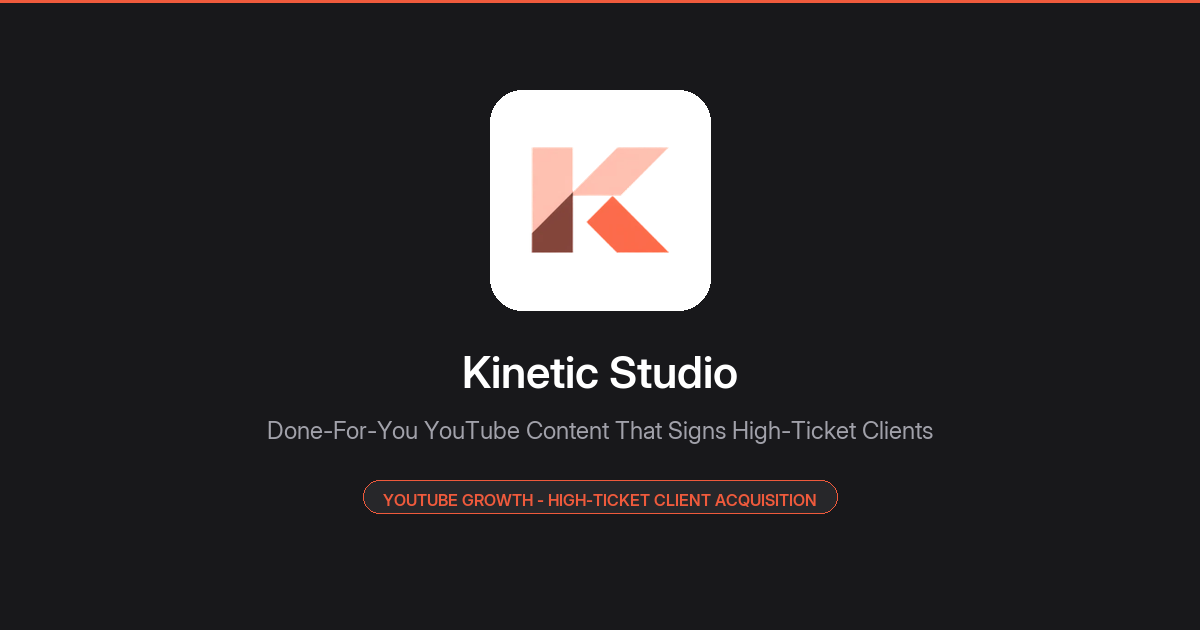
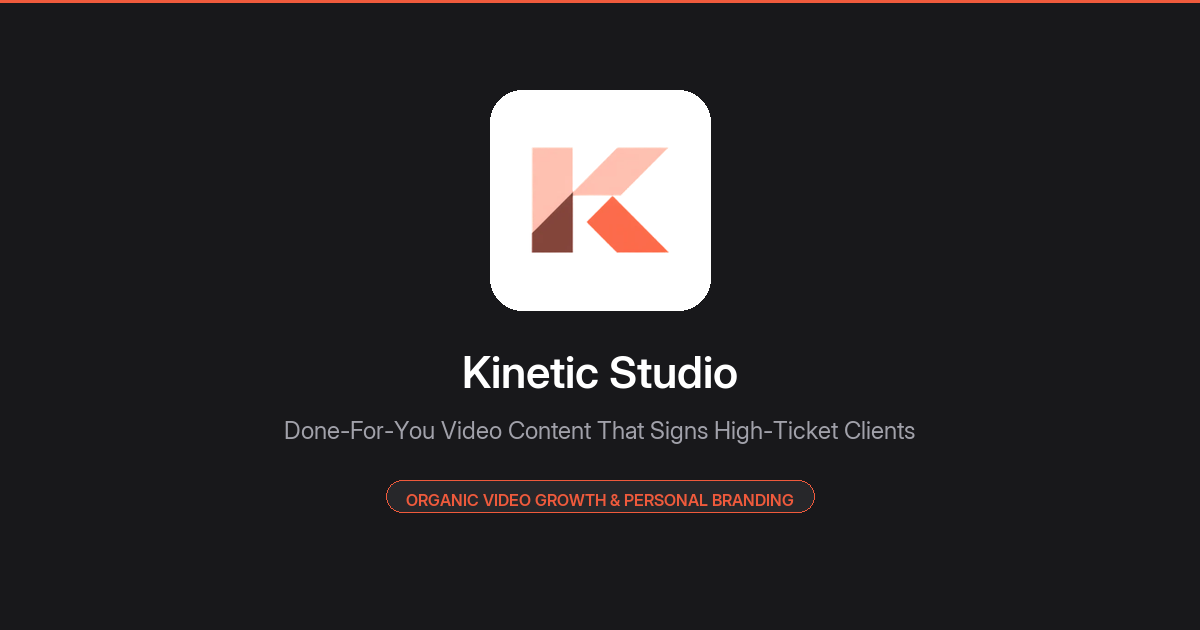
Generalize agency positioning from YouTube-only to full Video Growth & Personal Branding across headlines, metadata, and FAQ

Changed region(s): [[0.2158, 0.6635, 0.7708, 0.7238], [0.3083, 0.7841, 0.6783, 0.8143]]

diff --git a/index.html b/index.html
@@ -3,17 +3,17 @@
 <head>
   <meta charset="utf-8"/>
   <meta name="viewport" content="width=device-width, initial-scale=1"/>
-  <title>Kinetic Studio | Done-for-you YouTube Growth | Sign High-Ticket Clients</title>
-  <meta name="title" content="Kinetic Studio | Done-for-you YouTube Growth | Sign High-Ticket Clients"/>
-  <meta name="description" content="Kinetic Studio produces done-for-you YouTube videos so you can sign high-ticket clients and grow your business. We handle everything from ideation to scripting to editing to SEO to posting and lead tracking."/>
+  <title>Kinetic Studio | Done-for-you Video Growth | Sign High-Ticket Clients</title>
+  <meta name="title" content="Kinetic Studio | Done-for-you Video Growth | Sign High-Ticket Clients"/>
+  <meta name="description" content="Kinetic Studio produces done-for-you video content and personal branding so you can sign high-ticket clients and grow your business. We handle everything from ideation to scripting to editing to posting and lead tracking."/>
   <link rel="canonical" href="https://kineticstudio.site/"/>
 
   <!-- Open Graph / Facebook / LinkedIn / WhatsApp -->
   <meta property="og:type" content="website"/>
   <meta property="og:url" content="https://kineticstudio.site/"/>
   <meta property="og:site_name" content="Kinetic Studio"/>
-  <meta property="og:title" content="Kinetic Studio | Done-for-you YouTube Growth | Sign High-Ticket Clients"/>
-  <meta property="og:description" content="Done-for-you YouTube videos engineered to convert viewers into high-ticket clients. Ideation, scripting, editing, SEO, posting, and lead tracking."/>
+  <meta property="og:title" content="Kinetic Studio | Done-for-you Video Growth | Sign High-Ticket Clients"/>
+  <meta property="og:description" content="Done-for-you high-retention video content engineered to convert viewers into high-ticket clients. Ideation, scripting, editing, distribution, and lead tracking."/>
   <meta property="og:image" content="https://kineticstudio.site/assets/og_preview.png"/>
   <meta property="og:image:secure_url" content="https://kineticstudio.site/assets/og_preview.png"/>
   <meta property="og:image:type" content="image/png"/>
@@ -25,8 +25,8 @@
   <meta name="twitter:card" content="summary_large_image"/>
   <meta name="twitter:site" content="@kineticstudio"/>
   <meta name="twitter:url" content="https://kineticstudio.site/"/>
-  <meta name="twitter:title" content="Kinetic Studio | Done-for-you YouTube Growth"/>
-  <meta name="twitter:description" content="Kinetic Studio produces done-for-you YouTube videos so you can sign high-ticket clients and grow your business."/>
+  <meta name="twitter:title" content="Kinetic Studio | Done-for-you Video Growth"/>
+  <meta name="twitter:description" content="Kinetic Studio produces done-for-you video content and personal branding so you can sign high-ticket clients and grow your business."/>
   <meta name="twitter:image" content="https://kineticstudio.site/assets/og_preview.png"/>
 
   <!-- Google Search Favicons & Icons (Google Search multiple-of-48px standard) -->
@@ -62,7 +62,7 @@
           "height": 512
         },
         "image": "https://kineticstudio.site/assets/kinetic_logo_512.png",
-        "description": "Done-For-You YouTube Content That Signs High-Ticket Clients in 30 Days.",
+        "description": "Done-For-You Video Content That Signs High-Ticket Clients in 30 Days.",
         "email": "hello@kineticstudio.site"
       },
       {
@@ -70,7 +70,7 @@
         "@id": "https://kineticstudio.site/#website",
         "url": "https://kineticstudio.site/",
         "name": "Kinetic Studio",
-        "description": "Done-For-You YouTube Content That Signs High-Ticket Clients in 30 Days.",
+        "description": "Done-For-You Video Content That Signs High-Ticket Clients in 30 Days.",
         "publisher": {
           "@id": "https://kineticstudio.site/#organization"
         }
@@ -151,11 +151,11 @@
       <div class="ks-hero-content">
         <div style="display:inline-flex; align-items:center; gap:6px; background:#ECECEB; border:1px solid rgba(0,0,0,0.06); padding:6px 14px; border-radius:999px; font-size:12.5px; font-weight:600; color:#18181B; margin-bottom:20px;">
           <span style="width:6px; height:6px; background:#10B981; border-radius:50%; display:inline-block;"></span>
-          Done-for-you YouTube Growth
+          Done-for-you Video Growth
         </div>
 
         <h1 class="ks-hero-title">
-          <span class="dark-text">Done-For-You YouTube Content</span><br/>
+          <span class="dark-text">Done-For-You Video Content</span><br/>
           <span class="coral-text">That Signs High-Ticket Clients in 30 Days.</span>
         </h1>
 
@@ -237,8 +237,8 @@
     <h2 class="ks-apps-headline">
       The Acquisition Engine built for
       <span class="app-pill-tag email-tag">
-        <svg width="24" height="20" viewBox="0 0 24 24" fill="currentColor"><path d="M23.498 6.186a3.016 3.016 0 0 0-2.122-2.136C19.505 3.545 12 3.545 12 3.545s-7.505 0-9.377.505A3.017 3.017 0 0 0 .502 6.186C0 8.07 0 12 0 12s0 3.93.502 5.814a3.016 3.016 0 0 0 2.122 2.136c1.871.505 9.376.505 9.376.505s7.505 0 9.377-.505a3.015 3.015 0 0 0 2.122-2.136C24 15.93 24 12 24 12s0-3.93-.502-5.814zM9.545 15.568V8.432L15.818 12l-6.273 3.568z"/></svg>
-        YouTube
+        <svg width="22" height="20" viewBox="0 0 24 24" fill="none" stroke="currentColor" stroke-width="2"><polygon points="23 7 16 12 23 17 23 7"/><rect x="1" y="5" width="15" height="14" rx="2" ry="2"/></svg>
+        Organic Video
       </span>
       <span class="app-pill-tag events-tag">
         <svg width="22" height="20" viewBox="0 0 24 24" fill="none" stroke="currentColor" stroke-width="2"><path d="M16 21v-2a4 4 0 0 0-4-4H6a4 4 0 0 0-4 4v2"/><circle cx="9" cy="7" r="4"/><path d="M22 21v-2a4 4 0 0 0-3-3.87"/><path d="M16 3.13a4 4 0 0 1 0 7.75"/></svg>
@@ -258,11 +258,11 @@
     <div class="ks-pillars-grid">
       <div class="ks-pillar-col">
         <h3>High-Intent Inbound Funnels</h3>
-        <p>YouTube is where buyers go when searching for solutions. Evergreen traffic that pre-sells and builds trust while you sleep.</p>
+        <p>Organic video is where buyers go when evaluating solutions. Evergreen content that pre-sells and builds trust while you sleep.</p>
       </div>
       <div class="ks-pillar-col">
         <h3>100% Done-For-You Production</h3>
-        <p>We ideate, write word-for-word scripts, direct, edit, optimize SEO, design thumbnails, and post. You only record 60 mins a week.</p>
+        <p>We ideate, write word-for-word scripts, direct, edit, optimize distribution, design assets, and post. You only record 60 mins a week.</p>
       </div>
       <div class="ks-pillar-col">
         <h3>Retention & Lead Tracking</h3>
@@ -282,7 +282,7 @@
         </div>
         <h2 style="font-size: clamp(28px, 3.5vw, 44px); font-weight: 400; letter-spacing: -0.025em; margin:0 0 8px 0;">Previous Projects & Content Showcase</h2>
         <p style="font-size: 15px; color: #666666; max-width: 650px; margin:0 0 16px 0;">
-          Our clients make 5-6 figures/mo each, directly from YouTube organic. Views and subscribers are just a byproduct.
+          Our clients make 5-6 figures/mo each, directly from organic video. Views and followers are just a byproduct.
         </p>
         
         <!-- Filter Tabs -->
@@ -557,7 +557,7 @@
     <div style="text-align:center; max-width:700px; margin:0 auto 36px auto;">
       <span class="ks-card-badge badge-calendar" style="margin-bottom:12px; display:inline-block;">Got Questions?</span>
       <h2 style="font-size: clamp(28px, 3.5vw, 44px); font-weight: 500; letter-spacing: -0.025em; margin:0 0 10px 0; color:#000;">Frequently Asked Questions</h2>
-      <p style="font-size:15px; color:#666666; margin:0;">Everything you need to know about our done-for-you YouTube growth system.</p>
+      <p style="font-size:15px; color:#666666; margin:0;">Everything you need to know about our done-for-you video growth system.</p>
     </div>
 
     <div class="ks-faq-list">
@@ -568,18 +568,17 @@
           <span class="ks-faq-chevron">⌄</span>
         </button>
         <div class="ks-faq-answer">
-          We handle the entire YouTube growth strategy for you, from scripting and editing to SEO, thumbnails, and posting. You just show up to record once a week. Everything else is done-for-you with a focus on getting you more qualified inbound leads.
+          We handle the entire video growth strategy for you, from scripting and editing to thumbnails, posting, and distribution. You just show up to record once a week. Everything else is done-for-you with a focus on getting you more qualified inbound leads.
         </div>
       </div>
 
       <!-- FAQ 02 -->
       <div class="ks-faq-item">
         <button class="ks-faq-question" type="button">
-          <span><span class="ks-faq-no">[ 02 ]</span> Why YouTube?</span>
-          <span class="ks-faq-chevron">⌄</span>
+          <span><span class="ks-faq-no">[ 02 ]</span> Why organic video?</span>
         </button>
         <div class="ks-faq-answer">
-          YouTube is where buyers go when they’re actively searching for a solution. It’s high-intent, evergreen, and compounds over time, unlike short-form, ads, or cold outreach. One good video can drive leads for months (or years) without spending a penny on traffic.
+          Organic video content is where buyers go when evaluating solutions and personal brands. It builds deep trust, pre-sells your offer, and compounds over time. One solid piece of video content can drive qualified leads for months without spending on paid ads.
         </div>
       </div>
 
@@ -590,7 +589,7 @@
           <span class="ks-faq-chevron">⌄</span>
         </button>
         <div class="ks-faq-answer">
-          YouTube is unique in the sense that it's not just a linear acquisition channel. The value of one video doesn’t stop after it’s published. It keeps working. It builds trust while you sleep. It pre-sells for you while you’re on calls. It warms up leads that found you from cold ads, referrals, SEO, or outbound. It becomes the backbone of your brand, amplifying everything else you're doing, without demanding your full attention every day.
+          Organic video content is unique in the sense that it's not just a linear acquisition channel. It builds trust while you sleep. It pre-sells for you while you’re on calls. It warms up leads that found you from cold ads, referrals, or outbound. It becomes the backbone of your brand, amplifying everything else you're doing, without demanding your full attention every day.
         </div>
       </div>
 
@@ -656,14 +655,14 @@
           <span class="ks-faq-chevron">⌄</span>
         </button>
         <div class="ks-faq-answer">
-          Not at all. Some of our best-performing clients had under 300 subscribers when they started. YouTube is search-based, which means you show up in front of buyers, not followers.
+          Not at all. Some of our best-performing clients had under 300 followers when they started. Our content systems are search and algorithmic retention-based, which means you show up in front of high-intent buyers, not passive followers.
         </div>
       </div>
 
       <!-- FAQ 10 -->
       <div class="ks-faq-item">
         <button class="ks-faq-question" type="button">
-          <span><span class="ks-faq-no">[ 10 ]</span> What if I’ve tried YouTube before and it didn’t work?</span>
+          <span><span class="ks-faq-no">[ 10 ]</span> What if I’ve tried video content before and it didn’t work?</span>
           <span class="ks-faq-chevron">⌄</span>
         </button>
         <div class="ks-faq-answer">
@@ -687,7 +686,7 @@
     <div class="ks-community-card">
       <span class="ks-process-step-badge" style="margin: 0 auto 16px auto;">Scale Your Inbound Pipeline</span>
       <h2>Start Signing High-Ticket Clients Within 30 Days</h2>
-      <p>We handle everything done-for-you: ideation, scripting, editing, SEO, and posting. You just record once a week and watch qualified leads roll in.</p>
+      <p>We handle everything done-for-you: ideation, scripting, editing, distribution, and lead tracking. You just record once a week and watch qualified leads roll in.</p>
 
       <div class="ks-hero-cta-wrap">
         <a href="https://calendly.com/nafewislam11/new-meeting" target="_blank" rel="noopener" class="ks-hero-btn-figma">
@@ -713,8 +712,8 @@
             <span style="font-weight: 700; font-size: 20px; letter-spacing: -0.02em; color: #000000;">Kinetic Studio</span>
           </div>
           <p style="font-size: 13px; color: #71717A; margin-top: 8px; line-height: 1.5;">
-            Done-for-you YouTube Growth.<br/>
-            Producing high-retention YouTube content that signs high-ticket clients.
+            Done-for-you Video Growth & Personal Branding.<br/>
+            Producing high-retention video content that signs high-ticket clients.
           </p>
           <div style="margin-top: 12px; font-size: 13px; color: #444444;">
             For queries: <a href="mailto:hello@kineticstudio.site" style="color:#EF5A3C; text-decoration:none; font-weight:500;">hello@kineticstudio.site</a>
@@ -740,9 +739,10 @@
       <div class="ks-footer-col">
         <h4>Services</h4>
         <ul>
-          <li><a href="#work">YouTube Client Acquisition</a></li>
+          <li><a href="#work">High-Ticket Client Acquisition</a></li>
           <li><a href="#work">High-Retention Video Editing</a></li>
-          <li><a href="#work">Thumbnail & CTR Packaging</a></li>
+          <li><a href="#work">Personal Branding & Shortform</a></li>
+          <li><a href="#work">Organic Content Funnels</a></li>
           <li><a href="#work">SEO & Inbound Funnels</a></li>
           <li><a href="#work">Scripting & Content Strategy</a></li>
         </ul>
